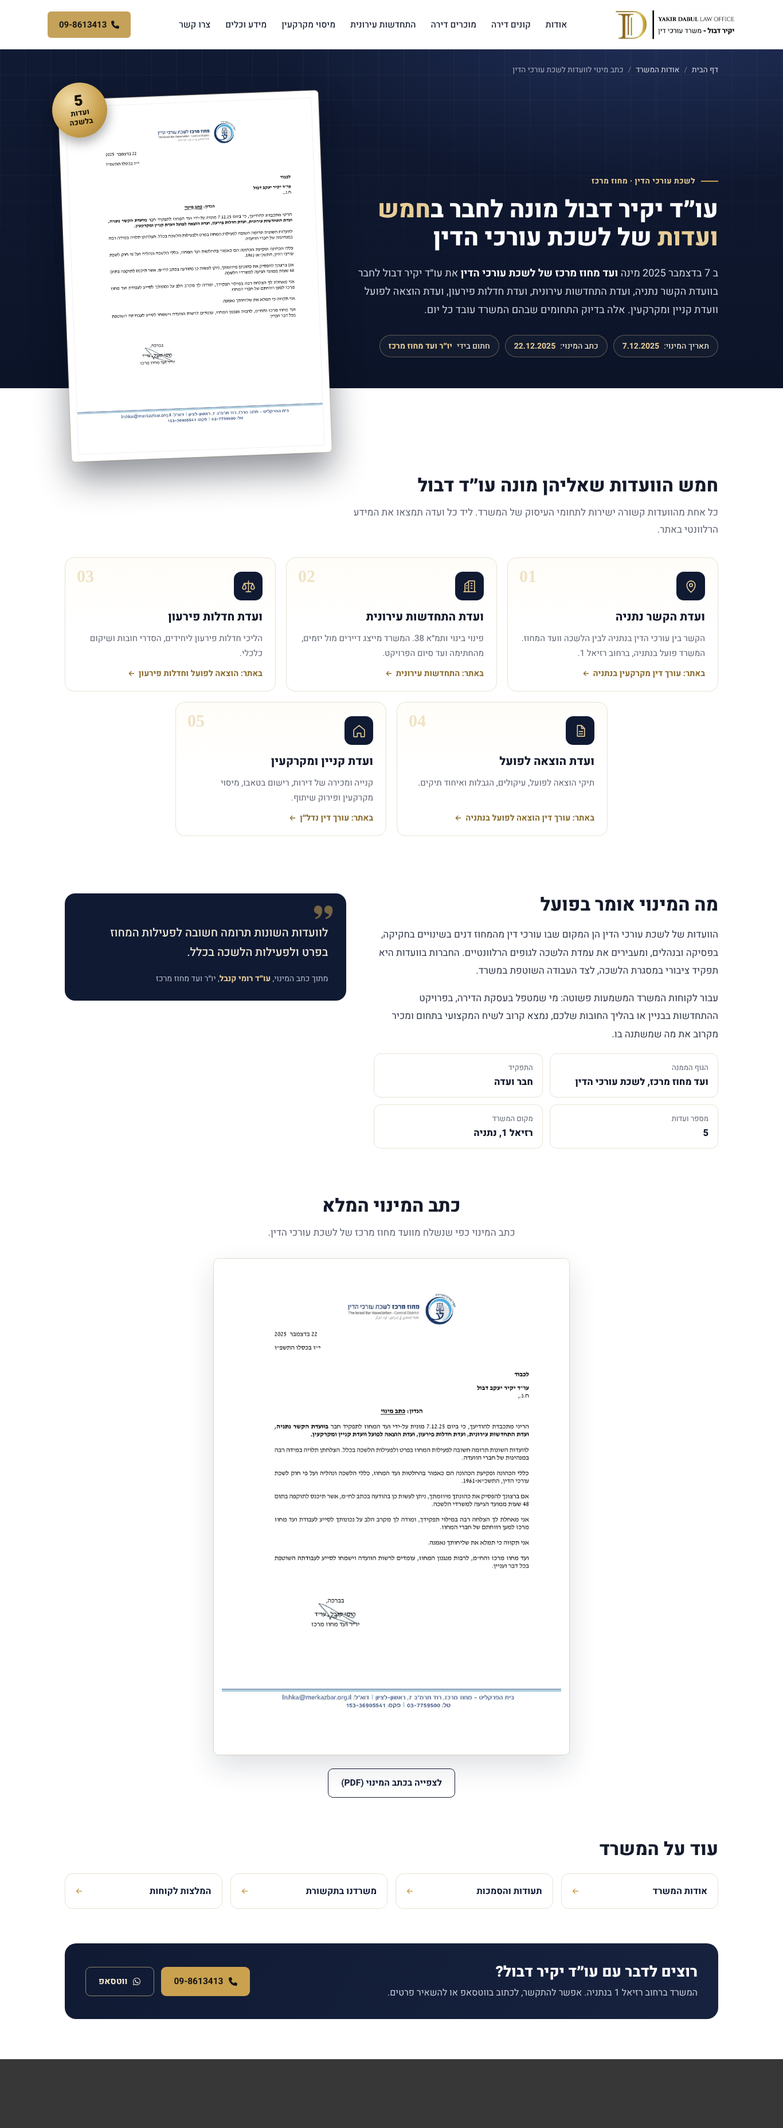
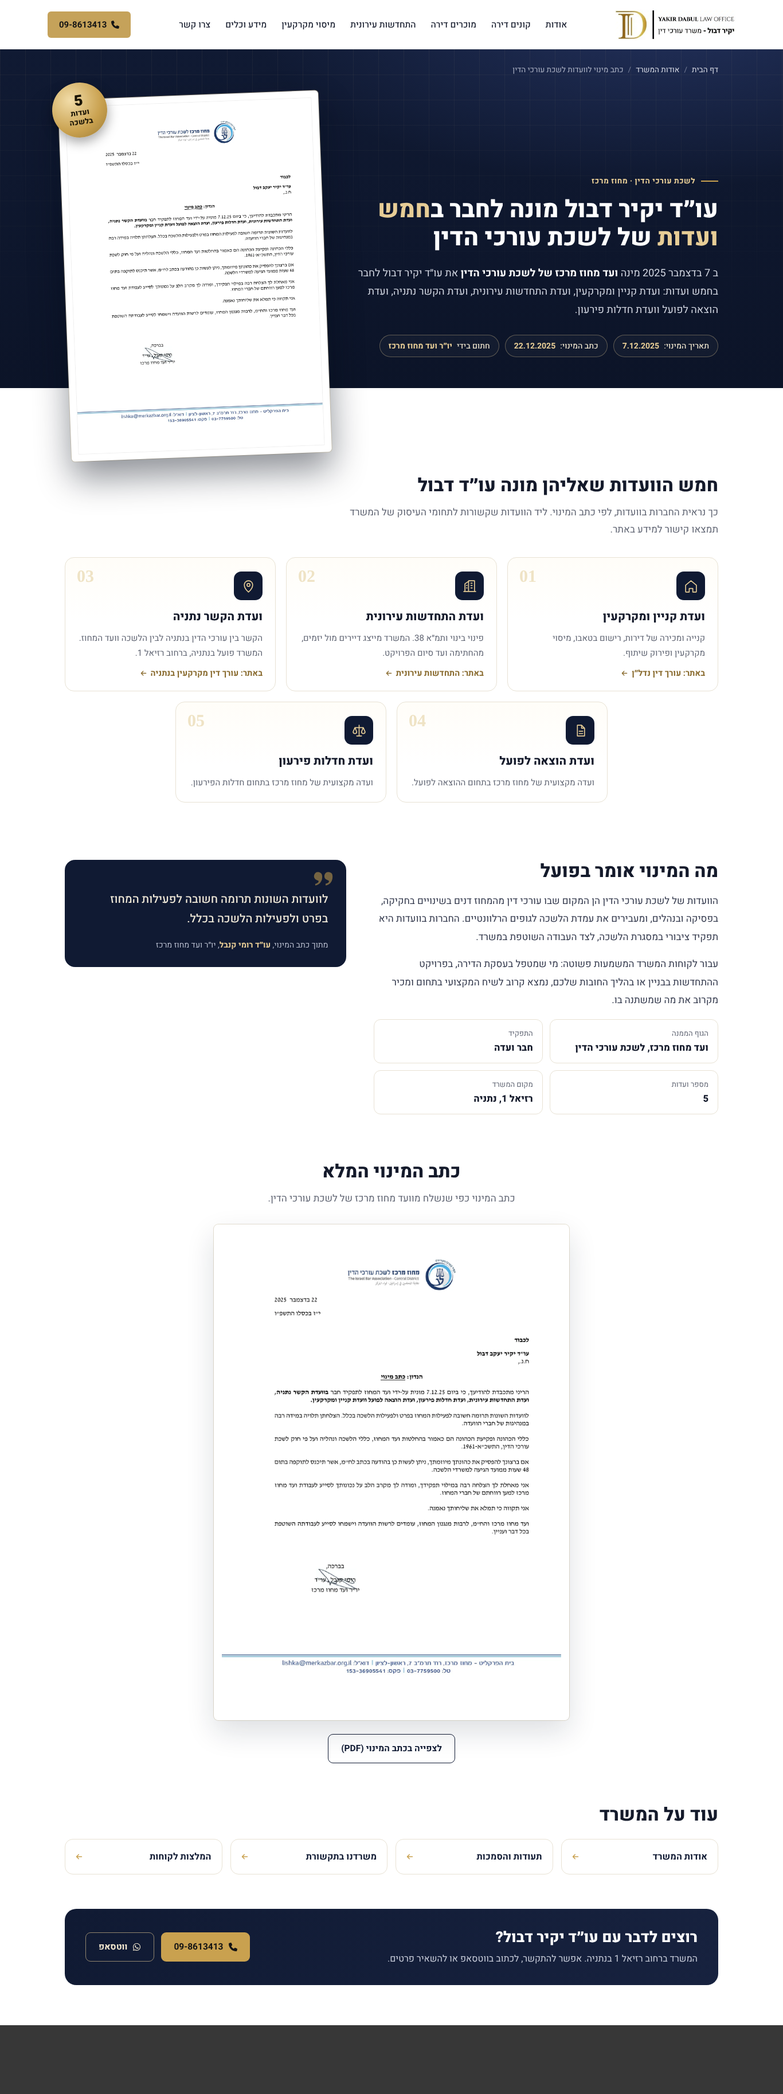
Appointment page payload (5 committees, insolvency last without link)
Claude-Session: https://claude.ai/code/session_01R2PTbBSCdrkEqwtLk6qd2a

diff --git a/media/site/sketches/2026-10-20/minui.preview.html b/media/site/sketches/2026-10-20/minui.preview.html
@@ -17,7 +17,7 @@ a{color:inherit;text-decoration:none}
 .hero span{position:absolute;top:44px;right:0;left:0;text-align:center;font:800 30px Heebo;color:#fff;opacity:.85}
 @media (max-width:767px){.mh .in{height:66px;padding:0 14px}.mh img{height:40px}.mh nav,.mh .btn{display:none}.mh .burger{display:block}.hero{height:120px}.hero span{font-size:21px;top:34px}}
 
-.dmn{--g:#c9a14f;--g2:#e7cd96;--n:#101a33;--n2:#17223f;--ln:#e8e2d4;--ink:#141a2b;--mut:#5f6472;font-family:Heebo,Arial,sans-serif;color:var(--ink);background:#fff;overflow:hidden}
+.dmn{--g:#c9a14f;--g2:#e7cd96;--n:#101a33;--n2:#17223f;--ln:#e8e2d4;--ink:#141a2b;--mut:#5f6472;font-family:"Noto Local","Heebo",Arial,sans-serif;color:var(--ink);background:#fff;overflow:hidden}
 .dmn *{box-sizing:border-box}
 .dmn .w{max-width:1180px;margin:0 auto;padding:0 20px}
 .dmn .top{background:radial-gradient(1200px 500px at 85% -10%,#22305a 0,transparent 60%),linear-gradient(180deg,var(--n),#0c1428);color:#fff;padding:26px 0 0;position:relative}
@@ -92,15 +92,15 @@ a{color:inherit;text-decoration:none}
 <div class="hg"><div>
 <div class="ey">לשכת עורכי הדין · מחוז מרכז</div>
 <h1>עו״ד יקיר דבול מונה לחבר ב<em>חמש ועדות</em> של לשכת עורכי הדין</h1>
-<p class="lead">ב 7 בדצמבר 2025 מינה <b>ועד מחוז מרכז של לשכת עורכי הדין</b> את עו״ד יקיר דבול לחבר בוועדת הקשר נתניה, ועדת התחדשות עירונית, ועדת חדלות פירעון, ועדת הוצאה לפועל וועדת קניין ומקרקעין. אלה בדיוק התחומים שבהם המשרד עובד כל יום.</p>
+<p class="lead">ב 7 בדצמבר 2025 מינה <b>ועד מחוז מרכז של לשכת עורכי הדין</b> את עו״ד יקיר דבול לחבר בחמש ועדות: ועדת קניין ומקרקעין, ועדת התחדשות עירונית, ועדת הקשר נתניה, ועדת הוצאה לפועל וועדת חדלות פירעון.</p>
 <div class="meta"><span>תאריך המינוי: <b>7.12.2025</b></span><span>כתב המינוי: <b>22.12.2025</b></span><span>חתום בידי <b>יו״ר ועד מחוז מרכז</b></span></div>
 </div>
 <div class="paper"><span class="seal"><b>5</b>ועדות<br>בלשכה</span><a href="ktav-minui-2025.pdf" target="_blank" rel="noopener" aria-label="פתיחת כתב המינוי המלא"><img src="ktav-minui-yakir-dabul-2025.webp" width="1406" height="1988" alt="כתב מינוי של עו״ד יקיר דבול לחבר בוועדות לשכת עורכי הדין, מחוז מרכז, מיום 22 בדצמבר 2025" loading="eager"></a></div>
 </div></div></section>
 
 <section class="sec"><div class="w"><div class="sh"><h2>חמש הוועדות שאליהן מונה עו״ד דבול</h2>
-<p>כל אחת מהוועדות קשורה ישירות לתחומי העיסוק של המשרד. ליד כל ועדה תמצאו את המידע הרלוונטי באתר.</p></div>
-<div class="coms"><article class="cm"><span class="ci"><svg viewBox="0 0 24 24" aria-hidden="true"><path d="M12 22s7-6.2 7-12a7 7 0 1 0-14 0c0 5.8 7 12 7 12zM12 12.5a2.5 2.5 0 1 0 0-5 2.5 2.5 0 0 0 0 5z"/></svg></span><h3>ועדת הקשר נתניה</h3><p>הקשר בין עורכי הדין בנתניה לבין הלשכה וועד המחוז. המשרד פועל בנתניה, ברחוב רזיאל 1.</p><a href="https://dabullaw.co.il/%d7%a2%d7%95%d7%a8%d7%9a-%d7%93%d7%99%d7%9f-%d7%9e%d7%a7%d7%a8%d7%a7%d7%a2%d7%99%d7%9f-%d7%91%d7%a0%d7%aa%d7%a0%d7%99%d7%94/">באתר: עורך דין מקרקעין בנתניה <svg class="" viewBox="0 0 448 512" aria-hidden="true"><path fill="currentColor" d="M9.4 233.4c-12.5 12.5-12.5 32.8 0 45.3l160 160c12.5 12.5 32.8 12.5 45.3 0s12.5-32.8 0-45.3L109.2 288 416 288c17.7 0 32-14.3 32-32s-14.3-32-32-32l-306.7 0L214.6 118.6c12.5-12.5 12.5-32.8 0-45.3s-32.8-12.5-45.3 0l-160 160z"/></svg></a></article><article class="cm"><span class="ci"><svg viewBox="0 0 24 24" aria-hidden="true"><path d="M4 21V8l6-4v17M10 21V3h10v18M14 7h2M14 11h2M14 15h2M6.5 11h1M6.5 15h1M2 21h20"/></svg></span><h3>ועדת התחדשות עירונית</h3><p>פינוי בינוי ותמ״א 38. המשרד מייצג דיירים מול יזמים, מהחתימה ועד סיום הפרויקט.</p><a href="https://dabullaw.co.il/%d7%94%d7%aa%d7%97%d7%93%d7%a9%d7%95%d7%aa-%d7%a2%d7%99%d7%a8%d7%95%d7%a0%d7%99%d7%aa/">באתר: התחדשות עירונית <svg class="" viewBox="0 0 448 512" aria-hidden="true"><path fill="currentColor" d="M9.4 233.4c-12.5 12.5-12.5 32.8 0 45.3l160 160c12.5 12.5 32.8 12.5 45.3 0s12.5-32.8 0-45.3L109.2 288 416 288c17.7 0 32-14.3 32-32s-14.3-32-32-32l-306.7 0L214.6 118.6c12.5-12.5 12.5-32.8 0-45.3s-32.8-12.5-45.3 0l-160 160z"/></svg></a></article><article class="cm"><span class="ci"><svg viewBox="0 0 24 24" aria-hidden="true"><path d="M12 3v18M5 7h14M5 7l-3 7a3 3 0 0 0 6 0zM19 7l-3 7a3 3 0 0 0 6 0zM8 21h8"/></svg></span><h3>ועדת חדלות פירעון</h3><p>הליכי חדלות פירעון ליחידים, הסדרי חובות ושיקום כלכלי.</p><a href="https://dabullaw.co.il/%d7%94%d7%95%d7%a6%d7%90%d7%94-%d7%9c%d7%a4%d7%95%d7%a2%d7%9c-%d7%95%d7%97%d7%93%d7%9c%d7%95%d7%aa-%d7%a4%d7%99%d7%a8%d7%a2%d7%95%d7%9f/">באתר: הוצאה לפועל וחדלות פירעון <svg class="" viewBox="0 0 448 512" aria-hidden="true"><path fill="currentColor" d="M9.4 233.4c-12.5 12.5-12.5 32.8 0 45.3l160 160c12.5 12.5 32.8 12.5 45.3 0s12.5-32.8 0-45.3L109.2 288 416 288c17.7 0 32-14.3 32-32s-14.3-32-32-32l-306.7 0L214.6 118.6c12.5-12.5 12.5-32.8 0-45.3s-32.8-12.5-45.3 0l-160 160z"/></svg></a></article><article class="cm"><span class="ci"><svg viewBox="0 0 24 24" aria-hidden="true"><path d="M7 3h7l5 5v13H7zM14 3v5h5M10 13h6M10 17h6"/></svg></span><h3>ועדת הוצאה לפועל</h3><p>תיקי הוצאה לפועל, עיקולים, הגבלות ואיחוד תיקים.</p><a href="https://dabullaw.co.il/%d7%a2%d7%95%d7%a8%d7%9a-%d7%93%d7%99%d7%9f-%d7%94%d7%95%d7%a6%d7%90%d7%94-%d7%9c%d7%a4%d7%95%d7%a2%d7%9c-%d7%91%d7%a0%d7%aa%d7%a0%d7%99%d7%94/">באתר: עורך דין הוצאה לפועל בנתניה <svg class="" viewBox="0 0 448 512" aria-hidden="true"><path fill="currentColor" d="M9.4 233.4c-12.5 12.5-12.5 32.8 0 45.3l160 160c12.5 12.5 32.8 12.5 45.3 0s12.5-32.8 0-45.3L109.2 288 416 288c17.7 0 32-14.3 32-32s-14.3-32-32-32l-306.7 0L214.6 118.6c12.5-12.5 12.5-32.8 0-45.3s-32.8-12.5-45.3 0l-160 160z"/></svg></a></article><article class="cm"><span class="ci"><svg viewBox="0 0 24 24" aria-hidden="true"><path d="M3 10.5 12 3l9 7.5V21a1 1 0 0 1-1 1h-5v-6h-6v6H4a1 1 0 0 1-1-1z"/></svg></span><h3>ועדת קניין ומקרקעין</h3><p>קנייה ומכירה של דירות, רישום בטאבו, מיסוי מקרקעין ופירוק שיתוף.</p><a href="https://dabullaw.co.il/real-estate-lawyer/">באתר: עורך דין נדל״ן <svg class="" viewBox="0 0 448 512" aria-hidden="true"><path fill="currentColor" d="M9.4 233.4c-12.5 12.5-12.5 32.8 0 45.3l160 160c12.5 12.5 32.8 12.5 45.3 0s12.5-32.8 0-45.3L109.2 288 416 288c17.7 0 32-14.3 32-32s-14.3-32-32-32l-306.7 0L214.6 118.6c12.5-12.5 12.5-32.8 0-45.3s-32.8-12.5-45.3 0l-160 160z"/></svg></a></article></div></div></section>
+<p>כך נראית החברות בוועדות, לפי כתב המינוי. ליד הוועדות שקשורות לתחומי העיסוק של המשרד תמצאו קישור למידע באתר.</p></div>
+<div class="coms"><article class="cm"><span class="ci"><svg viewBox="0 0 24 24" aria-hidden="true"><path d="M3 10.5 12 3l9 7.5V21a1 1 0 0 1-1 1h-5v-6h-6v6H4a1 1 0 0 1-1-1z"/></svg></span><h3>ועדת קניין ומקרקעין</h3><p>קנייה ומכירה של דירות, רישום בטאבו, מיסוי מקרקעין ופירוק שיתוף.</p><a href="https://dabullaw.co.il/real-estate-lawyer/">באתר: עורך דין נדל״ן <svg class="" viewBox="0 0 448 512" aria-hidden="true"><path fill="currentColor" d="M9.4 233.4c-12.5 12.5-12.5 32.8 0 45.3l160 160c12.5 12.5 32.8 12.5 45.3 0s12.5-32.8 0-45.3L109.2 288 416 288c17.7 0 32-14.3 32-32s-14.3-32-32-32l-306.7 0L214.6 118.6c12.5-12.5 12.5-32.8 0-45.3s-32.8-12.5-45.3 0l-160 160z"/></svg></a></article><article class="cm"><span class="ci"><svg viewBox="0 0 24 24" aria-hidden="true"><path d="M4 21V8l6-4v17M10 21V3h10v18M14 7h2M14 11h2M14 15h2M6.5 11h1M6.5 15h1M2 21h20"/></svg></span><h3>ועדת התחדשות עירונית</h3><p>פינוי בינוי ותמ״א 38. המשרד מייצג דיירים מול יזמים, מהחתימה ועד סיום הפרויקט.</p><a href="https://dabullaw.co.il/%d7%94%d7%aa%d7%97%d7%93%d7%a9%d7%95%d7%aa-%d7%a2%d7%99%d7%a8%d7%95%d7%a0%d7%99%d7%aa/">באתר: התחדשות עירונית <svg class="" viewBox="0 0 448 512" aria-hidden="true"><path fill="currentColor" d="M9.4 233.4c-12.5 12.5-12.5 32.8 0 45.3l160 160c12.5 12.5 32.8 12.5 45.3 0s12.5-32.8 0-45.3L109.2 288 416 288c17.7 0 32-14.3 32-32s-14.3-32-32-32l-306.7 0L214.6 118.6c12.5-12.5 12.5-32.8 0-45.3s-32.8-12.5-45.3 0l-160 160z"/></svg></a></article><article class="cm"><span class="ci"><svg viewBox="0 0 24 24" aria-hidden="true"><path d="M12 22s7-6.2 7-12a7 7 0 1 0-14 0c0 5.8 7 12 7 12zM12 12.5a2.5 2.5 0 1 0 0-5 2.5 2.5 0 0 0 0 5z"/></svg></span><h3>ועדת הקשר נתניה</h3><p>הקשר בין עורכי הדין בנתניה לבין הלשכה וועד המחוז. המשרד פועל בנתניה, ברחוב רזיאל 1.</p><a href="https://dabullaw.co.il/%d7%a2%d7%95%d7%a8%d7%9a-%d7%93%d7%99%d7%9f-%d7%9e%d7%a7%d7%a8%d7%a7%d7%a2%d7%99%d7%9f-%d7%91%d7%a0%d7%aa%d7%a0%d7%99%d7%94/">באתר: עורך דין מקרקעין בנתניה <svg class="" viewBox="0 0 448 512" aria-hidden="true"><path fill="currentColor" d="M9.4 233.4c-12.5 12.5-12.5 32.8 0 45.3l160 160c12.5 12.5 32.8 12.5 45.3 0s12.5-32.8 0-45.3L109.2 288 416 288c17.7 0 32-14.3 32-32s-14.3-32-32-32l-306.7 0L214.6 118.6c12.5-12.5 12.5-32.8 0-45.3s-32.8-12.5-45.3 0l-160 160z"/></svg></a></article><article class="cm"><span class="ci"><svg viewBox="0 0 24 24" aria-hidden="true"><path d="M7 3h7l5 5v13H7zM14 3v5h5M10 13h6M10 17h6"/></svg></span><h3>ועדת הוצאה לפועל</h3><p>ועדה מקצועית של מחוז מרכז בתחום ההוצאה לפועל.</p></article><article class="cm"><span class="ci"><svg viewBox="0 0 24 24" aria-hidden="true"><path d="M12 3v18M5 7h14M5 7l-3 7a3 3 0 0 0 6 0zM19 7l-3 7a3 3 0 0 0 6 0zM8 21h8"/></svg></span><h3>ועדת חדלות פירעון</h3><p>ועדה מקצועית של מחוז מרכז בתחום חדלות הפירעון.</p></article></div></div></section>
 
 <section><div class="w"><div class="two">
 <div class="txt"><h2>מה המינוי אומר בפועל</h2>

diff --git a/media/site/sketches/2026-10-20/gen_minui.py b/media/site/sketches/2026-10-20/gen_minui.py
@@ -11,25 +11,23 @@ PDF = 'ktav-minui-2025.pdf'
 def u(p): return S + p
 
 COMS = [
-    ('ועדת הקשר נתניה', 'הקשר בין עורכי הדין בנתניה לבין הלשכה וועד המחוז. המשרד פועל בנתניה, ברחוב רזיאל 1.',
-     u('/%d7%a2%d7%95%d7%a8%d7%9a-%d7%93%d7%99%d7%9f-%d7%9e%d7%a7%d7%a8%d7%a7%d7%a2%d7%99%d7%9f-%d7%91%d7%a0%d7%aa%d7%a0%d7%99%d7%94/'), 'עורך דין מקרקעין בנתניה',
-     'M12 22s7-6.2 7-12a7 7 0 1 0-14 0c0 5.8 7 12 7 12zM12 12.5a2.5 2.5 0 1 0 0-5 2.5 2.5 0 0 0 0 5z'),
-    ('ועדת התחדשות עירונית', 'פינוי בינוי ותמ״א 38. המשרד מייצג דיירים מול יזמים, מהחתימה ועד סיום הפרויקט.',
-     u('/%d7%94%d7%aa%d7%97%d7%93%d7%a9%d7%95%d7%aa-%d7%a2%d7%99%d7%a8%d7%95%d7%a0%d7%99%d7%aa/'), 'התחדשות עירונית',
-     'M4 21V8l6-4v17M10 21V3h10v18M14 7h2M14 11h2M14 15h2M6.5 11h1M6.5 15h1M2 21h20'),
-    ('ועדת חדלות פירעון', 'הליכי חדלות פירעון ליחידים, הסדרי חובות ושיקום כלכלי.',
-     u('/%d7%94%d7%95%d7%a6%d7%90%d7%94-%d7%9c%d7%a4%d7%95%d7%a2%d7%9c-%d7%95%d7%97%d7%93%d7%9c%d7%95%d7%aa-%d7%a4%d7%99%d7%a8%d7%a2%d7%95%d7%9f/'), 'הוצאה לפועל וחדלות פירעון',
-     'M12 3v18M5 7h14M5 7l-3 7a3 3 0 0 0 6 0zM19 7l-3 7a3 3 0 0 0 6 0zM8 21h8'),
-    ('ועדת הוצאה לפועל', 'תיקי הוצאה לפועל, עיקולים, הגבלות ואיחוד תיקים.',
-     u('/%d7%a2%d7%95%d7%a8%d7%9a-%d7%93%d7%99%d7%9f-%d7%94%d7%95%d7%a6%d7%90%d7%94-%d7%9c%d7%a4%d7%95%d7%a2%d7%9c-%d7%91%d7%a0%d7%aa%d7%a0%d7%99%d7%94/'), 'עורך דין הוצאה לפועל בנתניה',
-     'M7 3h7l5 5v13H7zM14 3v5h5M10 13h6M10 17h6'),
     ('ועדת קניין ומקרקעין', 'קנייה ומכירה של דירות, רישום בטאבו, מיסוי מקרקעין ופירוק שיתוף.',
      u('/real-estate-lawyer/'), 'עורך דין נדל״ן',
      'M3 10.5 12 3l9 7.5V21a1 1 0 0 1-1 1h-5v-6h-6v6H4a1 1 0 0 1-1-1z'),
+    ('ועדת התחדשות עירונית', 'פינוי בינוי ותמ״א 38. המשרד מייצג דיירים מול יזמים, מהחתימה ועד סיום הפרויקט.',
+     u('/%d7%94%d7%aa%d7%97%d7%93%d7%a9%d7%95%d7%aa-%d7%a2%d7%99%d7%a8%d7%95%d7%a0%d7%99%d7%aa/'), 'התחדשות עירונית',
+     'M4 21V8l6-4v17M10 21V3h10v18M14 7h2M14 11h2M14 15h2M6.5 11h1M6.5 15h1M2 21h20'),
+    ('ועדת הקשר נתניה', 'הקשר בין עורכי הדין בנתניה לבין הלשכה וועד המחוז. המשרד פועל בנתניה, ברחוב רזיאל 1.',
+     u('/%d7%a2%d7%95%d7%a8%d7%9a-%d7%93%d7%99%d7%9f-%d7%9e%d7%a7%d7%a8%d7%a7%d7%a2%d7%99%d7%9f-%d7%91%d7%a0%d7%aa%d7%a0%d7%99%d7%94/'), 'עורך דין מקרקעין בנתניה',
+     'M12 22s7-6.2 7-12a7 7 0 1 0-14 0c0 5.8 7 12 7 12zM12 12.5a2.5 2.5 0 1 0 0-5 2.5 2.5 0 0 0 0 5z'),
+    ('ועדת הוצאה לפועל', 'ועדה מקצועית של מחוז מרכז בתחום ההוצאה לפועל.', None, None,
+     'M7 3h7l5 5v13H7zM14 3v5h5M10 13h6M10 17h6'),
+    ('ועדת חדלות פירעון', 'ועדה מקצועית של מחוז מרכז בתחום חדלות הפירעון.', None, None,
+     'M12 3v18M5 7h14M5 7l-3 7a3 3 0 0 0 6 0zM19 7l-3 7a3 3 0 0 0 6 0zM8 21h8'),
 ]
 
 CSS = """
-.dmn{--g:#c9a14f;--g2:#e7cd96;--n:#101a33;--n2:#17223f;--ln:#e8e2d4;--ink:#141a2b;--mut:#5f6472;font-family:Heebo,Arial,sans-serif;color:var(--ink);background:#fff;overflow:hidden}
+.dmn{--g:#c9a14f;--g2:#e7cd96;--n:#101a33;--n2:#17223f;--ln:#e8e2d4;--ink:#141a2b;--mut:#5f6472;font-family:"Noto Local","Heebo",Arial,sans-serif;color:var(--ink);background:#fff;overflow:hidden}
 .dmn *{box-sizing:border-box}
 .dmn .w{max-width:1180px;margin:0 auto;padding:0 20px}
 .dmn .top{background:radial-gradient(1200px 500px at 85% -10%,#22305a 0,transparent 60%),linear-gradient(180deg,var(--n),#0c1428);color:#fff;padding:26px 0 0;position:relative}
@@ -103,7 +101,7 @@ CSS = """
 ALT = 'כתב מינוי של עו״ד יקיר דבול לחבר בוועדות לשכת עורכי הדין, מחוז מרכז, מיום 22 בדצמבר 2025'
 
 def body(img=IMG, pdf=PDF):
-    cards = ''.join(f'''<article class="cm"><span class="ci"><svg viewBox="0 0 24 24" aria-hidden="true"><path d="{svg}"/></svg></span><h3>{n}</h3><p>{d}</p><a href="{href}">באתר: {lt} {ic('arrow')}</a></article>''' for n, d, href, lt, svg in COMS)
+    cards = ''.join(f'''<article class="cm"><span class="ci"><svg viewBox="0 0 24 24" aria-hidden="true"><path d="{svg}"/></svg></span><h3>{n}</h3><p>{d}</p>{(f'<a href="{href}">באתר: {lt} ' + ic('arrow') + '</a>') if href else ''}</article>''' for n, d, href, lt, svg in COMS)
     links = [('אודות המשרד', '/%d7%90%d7%95%d7%93%d7%95%d7%aa-%d7%94%d7%9e%d7%a9%d7%a8%d7%93/'), ('תעודות והסמכות', '/%d7%aa%d7%a2%d7%95%d7%93%d7%95%d7%aa-%d7%95%d7%94%d7%a1%d7%9e%d7%9b%d7%95%d7%aa-%d7%a2%d7%95%d7%b4%d7%93-%d7%99%d7%a7%d7%99%d7%a8-%d7%93%d7%91%d7%95%d7%9c/'),
              ('משרדנו בתקשורת', '/%d7%9e%d7%94%d7%aa%d7%a7%d7%a9%d7%95%d7%a8%d7%aa/'), ('המלצות לקוחות', '/%d7%94%d7%9e%d7%9c%d7%a6%d7%95%d7%aa/')]
     lk = ''.join(f'<a href="{u(p)}">{t}{ic("arrow")}</a>' for t, p in links)
@@ -113,14 +111,14 @@ def body(img=IMG, pdf=PDF):
 <div class="hg"><div>
 <div class="ey">לשכת עורכי הדין · מחוז מרכז</div>
 <h1>עו״ד יקיר דבול מונה לחבר ב<em>חמש ועדות</em> של לשכת עורכי הדין</h1>
-<p class="lead">ב 7 בדצמבר 2025 מינה <b>ועד מחוז מרכז של לשכת עורכי הדין</b> את עו״ד יקיר דבול לחבר בוועדת הקשר נתניה, ועדת התחדשות עירונית, ועדת חדלות פירעון, ועדת הוצאה לפועל וועדת קניין ומקרקעין. אלה בדיוק התחומים שבהם המשרד עובד כל יום.</p>
+<p class="lead">ב 7 בדצמבר 2025 מינה <b>ועד מחוז מרכז של לשכת עורכי הדין</b> את עו״ד יקיר דבול לחבר בחמש ועדות: ועדת קניין ומקרקעין, ועדת התחדשות עירונית, ועדת הקשר נתניה, ועדת הוצאה לפועל וועדת חדלות פירעון.</p>
 <div class="meta"><span>תאריך המינוי: <b>7.12.2025</b></span><span>כתב המינוי: <b>22.12.2025</b></span><span>חתום בידי <b>יו״ר ועד מחוז מרכז</b></span></div>
 </div>
 <div class="paper"><span class="seal"><b>5</b>ועדות<br>בלשכה</span><a href="{pdf}" target="_blank" rel="noopener" aria-label="פתיחת כתב המינוי המלא"><img src="{img}" width="1406" height="1988" alt="{ALT}" loading="eager"></a></div>
 </div></div></section>
 
 <section class="sec"><div class="w"><div class="sh"><h2>חמש הוועדות שאליהן מונה עו״ד דבול</h2>
-<p>כל אחת מהוועדות קשורה ישירות לתחומי העיסוק של המשרד. ליד כל ועדה תמצאו את המידע הרלוונטי באתר.</p></div>
+<p>כך נראית החברות בוועדות, לפי כתב המינוי. ליד הוועדות שקשורות לתחומי העיסוק של המשרד תמצאו קישור למידע באתר.</p></div>
 <div class="coms">{cards}</div></div></section>
 
 <section><div class="w"><div class="two">
@@ -152,6 +150,16 @@ def schema(img_url, page_url):
          "about": {"@id": S + "/#yakir-dabul"}},
     ]}
 
+IMG_URL = 'https://dabullaw.co.il/wp-content/uploads/2026/10/ktav-minui-yakir-dabul-2025.webp'
+PDF_URL = 'https://dabullaw.co.il/wp-content/uploads/2026/10/ktav-minui-2025.pdf'
+SLUG = 'כתב-מינוי-ועדות-לשכת-עורכי-הדין'
+PAGE_URL = S + '/' + __import__('urllib.parse').parse.quote(SLUG).lower() + '/'
+
+def wp_content():
+    return '<!-- wp:html -->\n<style>' + CSS + '</style>\n' + body(IMG_URL, PDF_URL) + '\n<script type="application/ld+json">' + json.dumps(schema(IMG_URL, PAGE_URL), ensure_ascii=False) + '</script>\n<!-- /wp:html -->'
+
 if __name__ == '__main__':
+    write('minui-page.json', json.dumps({'title': 'כתב מינוי: עו״ד יקיר דבול חבר בחמש ועדות של לשכת עורכי הדין', 'slug': SLUG, 'status': 'publish', 'template': 'elementor_header_footer', 'content': wp_content(),
+        'excerpt': 'ב 7 בדצמבר 2025 מונה עו״ד יקיר דבול על ידי ועד מחוז מרכז של לשכת עורכי הדין לחבר בחמש ועדות: קניין ומקרקעין, התחדשות עירונית, הקשר נתניה, הוצאה לפועל וחדלות פירעון.', 'featured_media': 7662}, ensure_ascii=False))
     write('minui.preview.html', page('כתב מינוי', HDR_CSS + CSS, mock_header().split('<div class="hero"')[0] + body() + '<div style="background:#141414;height:120px;opacity:.85"></div>'))
     print('ok')
